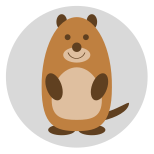
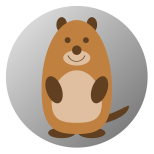
rename folder

diff --git a/examples/Icon.tex b/examples/Icon.tex
@@ -1,0 +1,24 @@
+% !TeX program = txs:///arara | txs:///view-log | txs:///view-pdf "?am).pdf"
+% arara: latexmk: {
+% arara: --> engine: pdflatex,
+% arara: --> }
+% arara: pdftocairo: { 
+% arara: --> format: 'png',
+% arara: --> options: ['-r', '150', '-transp', '-singlefile'],
+% arara: --> output: 'ICON'
+% arara: --> }
+% arara: clean: { extensions: [ aux, fdb_latexmk, fls, log, synctex.gz ] }
+% arara: move: { files: [ 'ICON.png' ], target: '../ICON.png' }
+
+\documentclass[border=1mm]{standalone}
+
+\usepackage{tikzmarmots}
+
+\begin{document}
+
+\begin{tikzpicture}
+  \shade[right color=gray,left color=gray!30,shading angle=45] (0,1.15) circle [radius=1.2cm];
+  \marmot
+\end{tikzpicture}
+
+\end{document}
